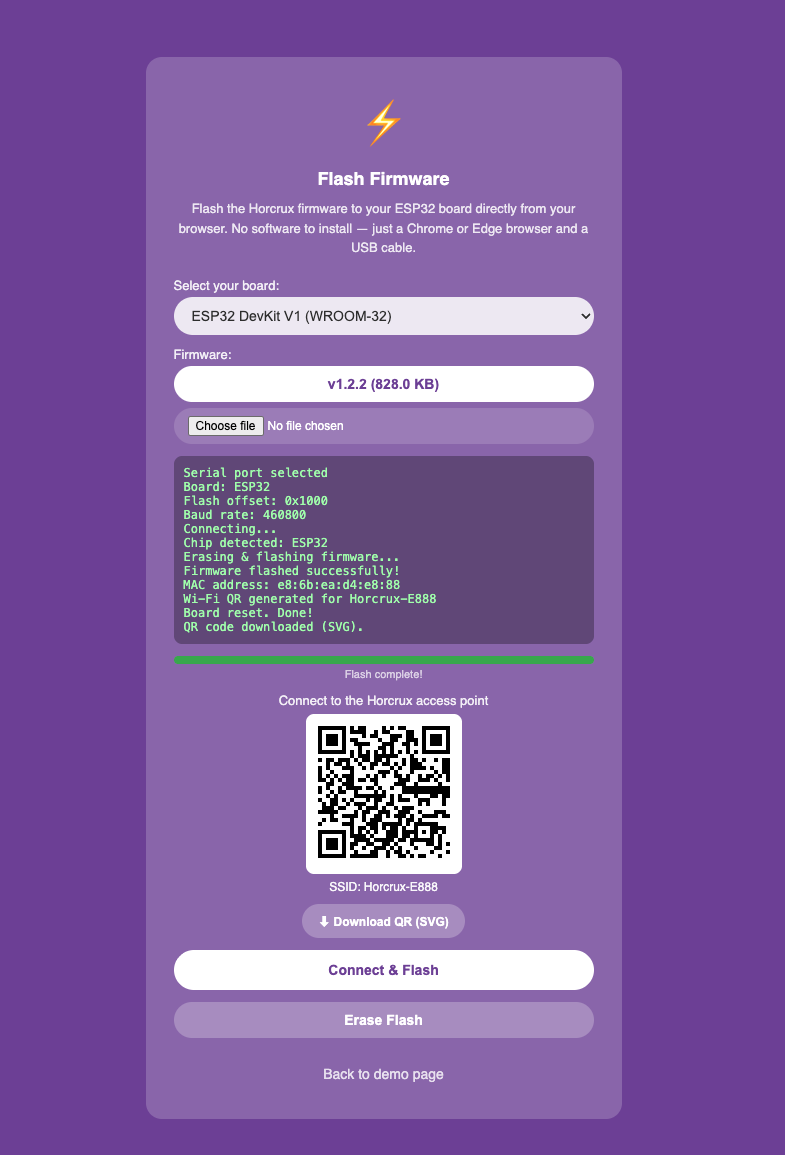
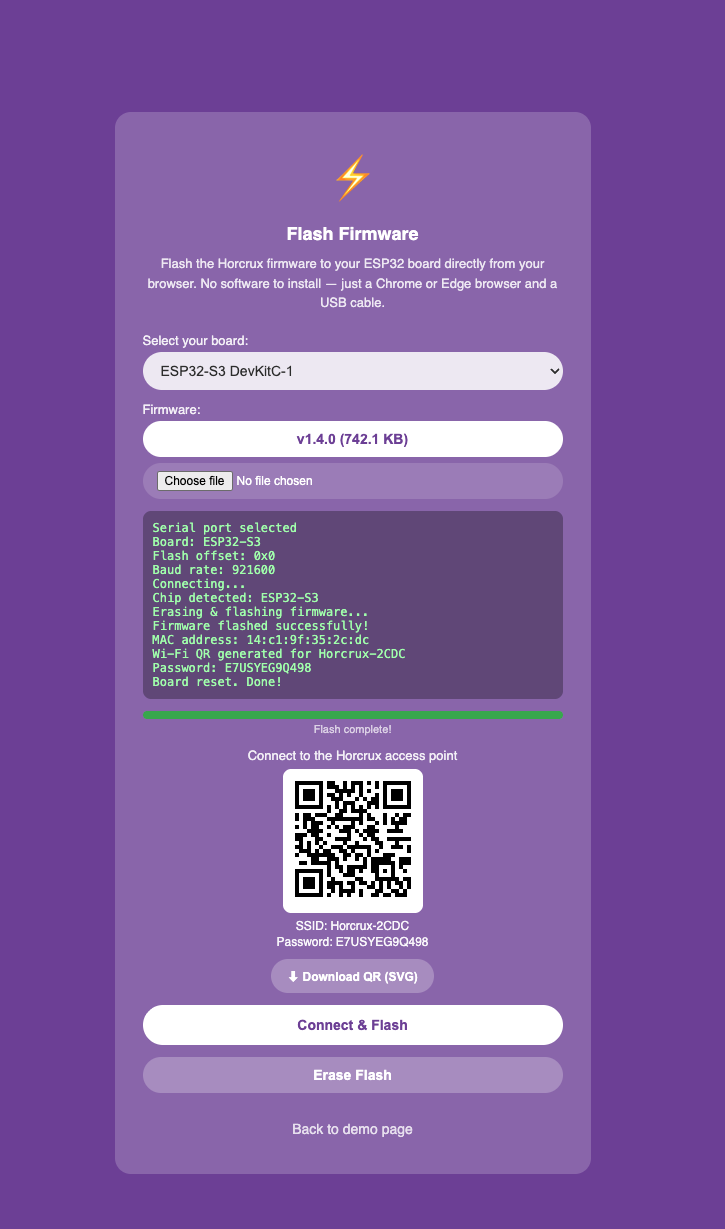
added(wifi_mgr): FNV-1a 64-bit hash on mac addr to generate unique password
This is to avoid getting a fixed password for every esp32 that embbed
the horcrux-core code.

Changed region(s): [[0.1517, 0.0312, 0.8193, 0.9662]]

diff --git a/demo/flash.html b/demo/flash.html
@@ -67,6 +67,7 @@
             </div>
             <div id="wifi-qr" style="background:#fff;border-radius:8px;padding:8px;display:inline-block"></div>
             <div id="wifi-ssid" style="font-size:12px;margin-top:6px;opacity:0.95;word-break:break-all"></div>
+            <div id="wifi-psk" style="font-size:12px;margin-top:2px;opacity:0.95;word-break:break-all"></div>
             <button id="download-qr-btn" class="btn"
                 style="font-size:12px;padding:8px 16px;width:auto;border:none;text-align:center;background:rgba(255,255,255,0.25);color:#fff;margin-top:10px;display:none">
                 &#x2B07; Download QR (SVG)
@@ -122,6 +123,7 @@
         const wifiQrWrapper = document.getElementById('wifi-qr-wrapper');
         const wifiQrEl = document.getElementById('wifi-qr');
         const wifiSsidEl = document.getElementById('wifi-ssid');
+        const wifiPskEl = document.getElementById('wifi-psk');
         const downloadQrBtn = document.getElementById('download-qr-btn');
 
         let port = null;
@@ -266,7 +268,9 @@
         // The SSID must match what the freshly-flashed firmware broadcasts
         // (see wifi_mgr.c): "Horcrux-" + the last 2 bytes of the MAC formatted
         // as 4 uppercase hex digits (addr[4] and addr[5]).
-        const WIFI_PSK = 'ubx7jrd9kje_ZRC8dqt';
+
+        // Length of the derived password (must match WIFI_PSK_LEN in wifi_mgr.h).
+        const WIFI_PSK_LEN = 12;
 
         // Holds the SVG string of the last generated QR so it can be downloaded.
         let lastQrSvg = null;
@@ -281,6 +285,49 @@
             return `Horcrux-${parts[4].toUpperCase()}${parts[5].toUpperCase()}`;
         }
 
+        // Derives the Wi-Fi password from the device MAC address.
+        // This MUST mirror derive_wifi_psk() in src/access-point/wifi/src/wifi_mgr.c:
+        //   - Compute an FNV-1a 64-bit hash over the MAC bytes (wrapping mod 2^64,
+        //     exactly like the firmware's uint64_t arithmetic)
+        //   - Convert the hash to a fixed-length, upper-case base-36 password
+        //     (least-significant digit first)
+        // Because both the firmware and this page run the exact same algorithm,
+        // the QR code shown after flashing matches the password actually used by
+        // the freshly-flashed device.
+        function deriveWifiPsk(mac) {
+            // readMac() returns a colon-separated string like "AA:BB:CC:DD:EE:FF"
+            const parts = mac.split(':');
+            if (parts.length < 6) {
+                return null;
+            }
+
+            // Upper-case base-36 alphabet (0-9A-Z), same order as in firmware.
+            const alphabet = '0123456789ABCDEFGHIJKLMNOPQRSTUVWXYZ';
+
+            // FNV-1a 64-bit hash of the 6 MAC bytes. The firmware stores the hash
+            // in a uint64_t, so multiplications wrap modulo 2^64. BigInt is
+            // unbounded, so we mask to 64 bits after each multiply to replicate
+            // the exact wrap-around behaviour of the C code.
+            const FNV_OFFSET = 0xcbf29ce484222325n;
+            const FNV_PRIME = 0x100000001b3n;
+            const MASK_64 = 0xffffffffffffffffn;
+            let hash = FNV_OFFSET;
+            for (const part of parts) {
+                hash ^= BigInt(parseInt(part, 16));
+                hash = (hash * FNV_PRIME) & MASK_64;
+            }
+
+            // Convert the hash to a fixed-length base-36 password,
+            // least-significant digit first (must match firmware order).
+            let h = hash;
+            let psk = '';
+            for (let i = 0; i < WIFI_PSK_LEN; i++) {
+                psk += alphabet[Number(h % 36n)];
+                h /= 36n;
+            }
+            return psk;
+        }
+
         function showWifiQr(mac) {
             const ssid = buildSsidFromMac(mac);
             if (!ssid) {
@@ -288,9 +335,15 @@
                 return;
             }
 
+            const psk = deriveWifiPsk(mac);
+            if (!psk) {
+                log(`Could not derive password from MAC "${mac}"`, true);
+                return;
+            }
+
             // Standard Wi-Fi QR payload (RFC-like convention used by iOS/Android):
             // WIFI:T:WPA;S:<ssid>;P:<password>;;
-            const wifiString = `WIFI:T:WPA;S:${ssid};P:${WIFI_PSK};;`;
+            const wifiString = `WIFI:T:WPA;S:${ssid};P:${psk};;`;
 
             try {
                 const qr = qrcode(0, 'M'); // type 0 = auto-size, ECC level M
@@ -300,10 +353,12 @@
 
                 wifiQrEl.innerHTML = svg;
                 wifiSsidEl.textContent = `SSID: ${ssid}`;
+                wifiPskEl.textContent = `Password: ${psk}`;
                 wifiQrWrapper.style.display = 'block';
                 lastQrSvg = svg;
                 downloadQrBtn.style.display = 'inline-block';
                 log(`Wi-Fi QR generated for ${ssid}`);
+                log(`Password: ${psk}`);
             } catch (err) {
                 log(`Could not generate Wi-Fi QR: ${err.message}`, true);
             }

diff --git a/src/access-point/wifi/src/wifi_mgr.c b/src/access-point/wifi/src/wifi_mgr.c
@@ -173,6 +173,47 @@ static void wifi_event_handler(struct net_mgmt_event_callback *cb, uint64_t mgmt
     }
 }
 
+/**
+ * @brief Derive the Wi-Fi AP password from the device MAC address.
+ *
+ * @details Computes an FNV-1a 64-bit hash of the given MAC bytes and converts
+ *          it to a fixed-length (WIFI_PSK_LEN), upper-case base-36 password.
+ *          This is fully deterministic: the same MAC always yields the same
+ *          password, and it requires no external crypto/hash library. The demo
+ *          flasher (demo/flash.html) mirrors this exact algorithm in
+ *          JavaScript so the QR code shown after flashing matches the password
+ *          actually used by the freshly-flashed firmware.
+ *
+ * @param mac[in]      : Pointer to the MAC bytes.
+ * @param mac_len[in]  : Number of MAC bytes.
+ * @param out[out]     : Destination buffer, must hold WIFI_PSK_LEN + 1 bytes.
+ *
+ * @return void (the derived password is written to @p out, always NUL-terminated).
+ */
+static void derive_wifi_psk(const uint8_t *mac, size_t mac_len, char *out)
+{
+    /* FNV-1a 64-bit hash of the MAC bytes */
+    uint64_t hash = 0xcbf29ce484222325ULL;
+    for (size_t i = 0; i < mac_len; i++)
+    {
+        hash ^= mac[i];
+        hash *= 0x100000001b3ULL;
+    }
+
+    /* Upper-case base-36 alphabet (0-9A-Z) */
+    static const char alphabet[] = "0123456789ABCDEFGHIJKLMNOPQRSTUVWXYZ";
+
+    /* Convert the hash to a fixed-length password, least-significant digit first.
+     * This order must match the JavaScript implementation in demo/flash.html. */
+    uint64_t h = hash;
+    for (int i = 0; i < WIFI_PSK_LEN; i++)
+    {
+        out[i] = alphabet[h % 36];
+        h /= 36;
+    }
+    out[WIFI_PSK_LEN] = '\0';
+}
+
 static int enable_ap_mode(struct net_if **ap_iface)
 {
     struct wifi_connect_req_params ap_config;
@@ -209,13 +250,20 @@ static int enable_ap_mode(struct net_if **ap_iface)
 
     LOG_INF("Turning on AP Mode");
 
+    /* Derive a deterministic WPA2 password from the device MAC address, so that
+     * every device broadcasts a unique access point with a unique password. */
+    char psk_buf[WIFI_PSK_LEN + 1];
+    derive_wifi_psk(link_addr->addr, link_addr->len, psk_buf);
+
+    LOG_INF("AP PSK: %s", psk_buf);
+
     ap_config.ssid = (const uint8_t *)ssid_buf;
     ap_config.ssid_length = (uint8_t)written;
-    ap_config.psk = (const uint8_t *)CONFIG_WIFI_SAMPLE_AP_PSK;
-    ap_config.psk_length = sizeof(CONFIG_WIFI_SAMPLE_AP_PSK) - 1;
+    ap_config.psk = (const uint8_t *)psk_buf;
+    ap_config.psk_length = WIFI_PSK_LEN;
     ap_config.channel = WIFI_CHANNEL_ANY;
     ap_config.band = WIFI_FREQ_BAND_2_4_GHZ;
-    ap_config.security = (sizeof(CONFIG_WIFI_SAMPLE_AP_PSK) == 1) ? WIFI_SECURITY_TYPE_NONE : WIFI_SECURITY_TYPE_PSK;
+    ap_config.security = WIFI_SECURITY_TYPE_PSK;
 
     int ret = net_mgmt(NET_REQUEST_WIFI_AP_ENABLE, *ap_iface, &ap_config, sizeof(struct wifi_connect_req_params));
     if (ret)

diff --git a/src/access-point/wifi/inc/wifi_mgr.h b/src/access-point/wifi/inc/wifi_mgr.h
@@ -6,6 +6,10 @@
 // ===========================================================================
 #define MACSTR "%02X:%02X:%02X:%02X:%02X:%02X"
 
+// Length of the AP password derived from the device MAC address (see
+// derive_wifi_psk in wifi_mgr.c). Must stay within the WPA2-PSK range (8..63).
+#define WIFI_PSK_LEN 12
+
 // Event mask for Wi-Fi events we are interested in
 #define NET_EVENT_WIFI_MASK                                                                                            \
     (NET_EVENT_WIFI_CONNECT_RESULT | NET_EVENT_WIFI_DISCONNECT_RESULT | NET_EVENT_WIFI_AP_ENABLE_RESULT |              \

diff --git a/README.md b/README.md
@@ -55,11 +55,7 @@ You can then join the network in one of two ways:
 <br>
 </div>
 
-2. **Manually connect** by searching for the SSID `Horcrux-XXXX` on your router and connecting with the following password:
-
-```
-ubx7jrd9kje_ZRC8dqt
-```
+2. **Manually connect** by searching for the SSID `Horcrux-XXXX` on your router and connecting with the password derived from your device's MAC address (also shown on below the SSID after flashing the device).
 
 ## SSS settings
 
